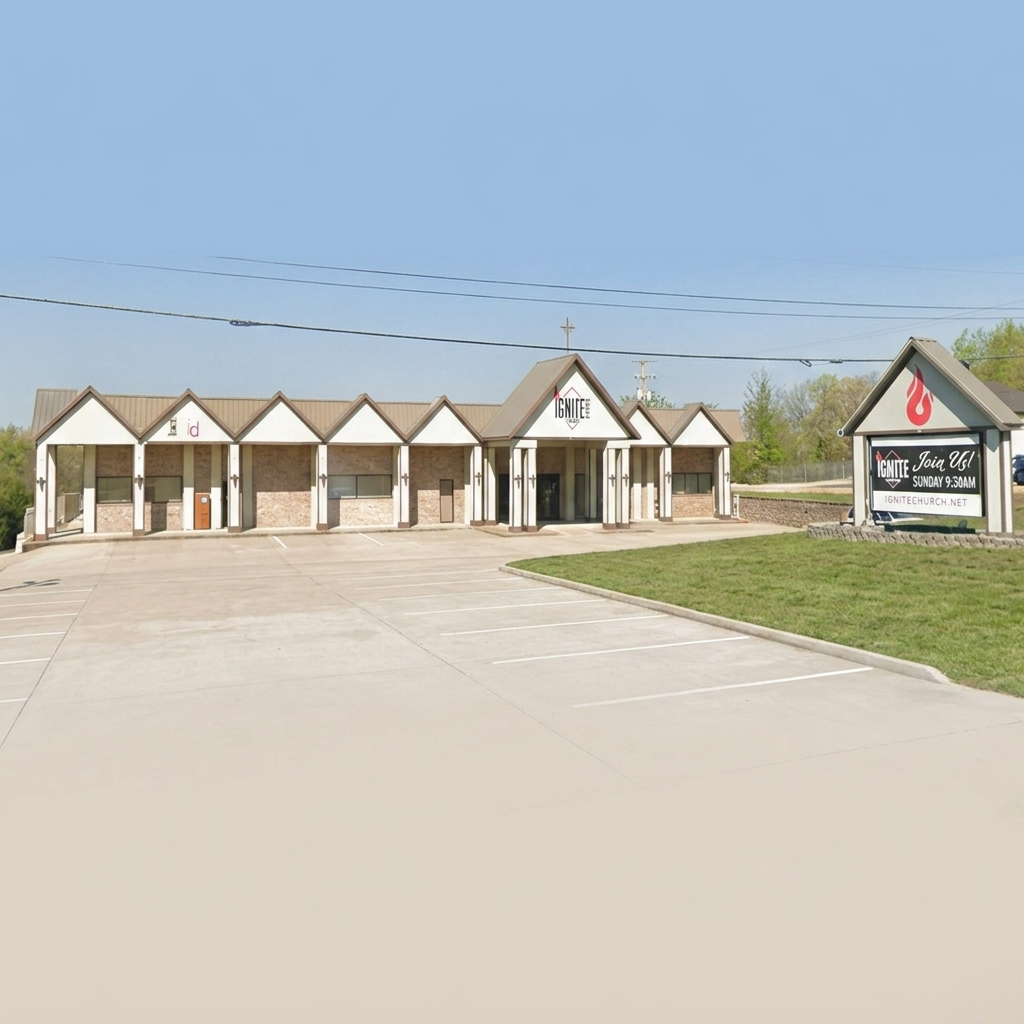
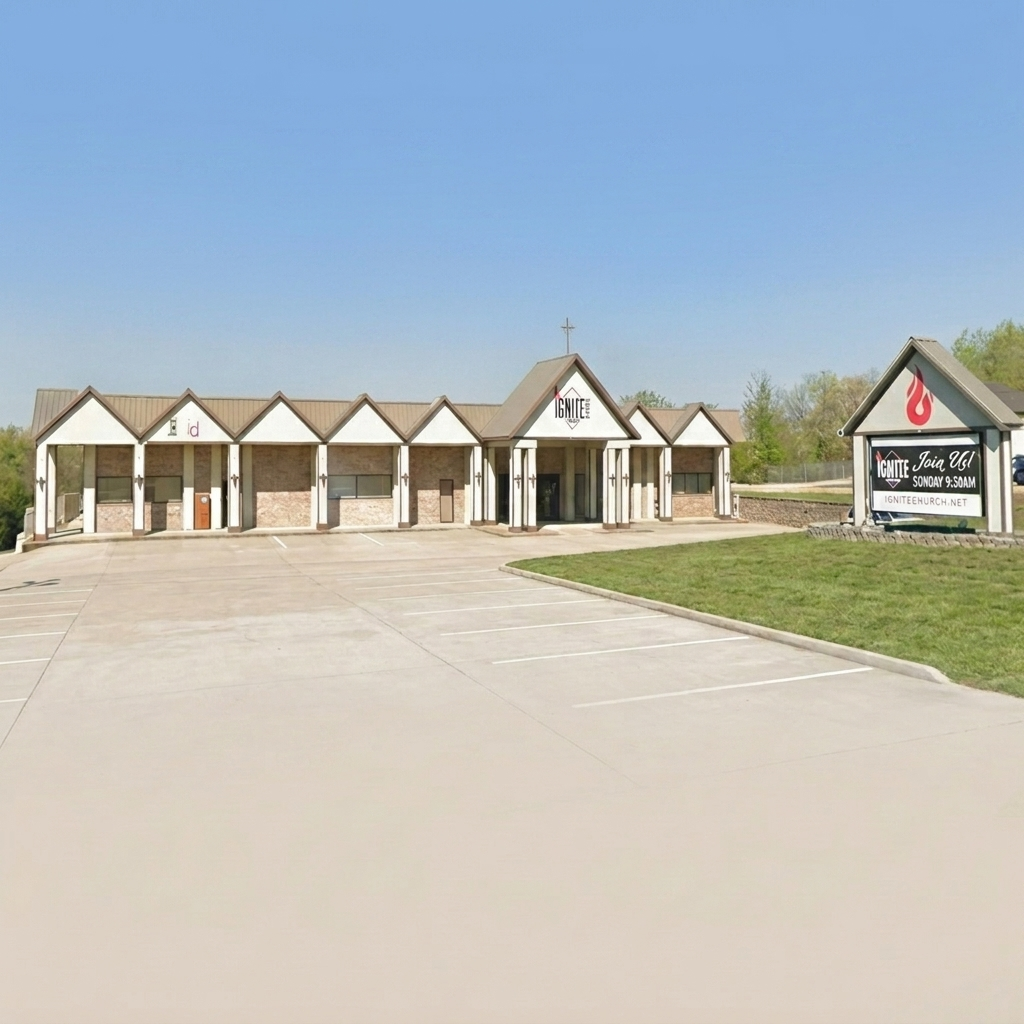
See Changelog.md

diff --git a/Changelog.md b/Changelog.md
@@ -33,4 +33,4 @@ and this project adheres to [Semantic Versioning](https://semver.org/spec/v2.0.0
 - Added intelligent fallback logic to the accordions so that "Contact Us" automatically expands if a user attempts to collapse all sections, ensuring critical info is always visible.
 - Added smooth auto-scrolling on mobile devices so that when a section is tapped to expand, the page smoothly scrolls to bring it into full view.
 - Updated the Family Diaper Bank schedule to accurately display the time block: "5:00 PM - 7:00 PM".
-- Replaced the embossed cross background with a highly realistic, AI-cleaned architectural photo of the actual IGNITE Church building, removing all parked vehicles, people, and equipment for a pristine look.
+- Replaced the embossed cross background with a highly realistic, AI-cleaned architectural photo of the actual IGNITE Church building, removing all parked vehicles, people, equipment, and power lines from the sky for a pristine look.